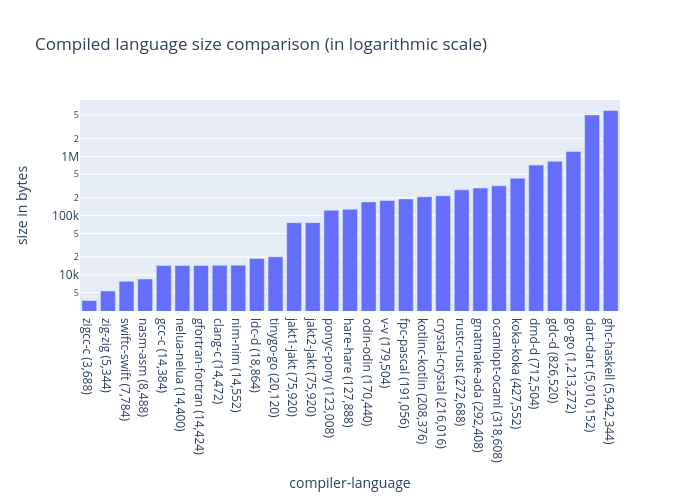
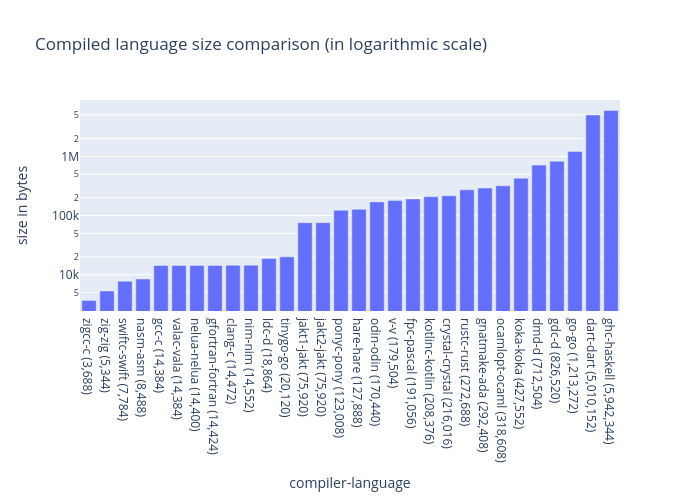
fix: vala and ocaml source code

Changed region(s): [[0.12, 0.3, 0.87, 0.93], [0.84, 0.84, 0.87, 0.87]]

diff --git a/README.md b/README.md
@@ -24,6 +24,7 @@ Logarithmic scale:
 |swift|swiftc|Swift version 5.6 (swift-5.6-RELEASE)|7,784|
 |asm|nasm|NASM version 2.15.05 compiled on Sep 24 2020|8,488|
 |c|gcc|gcc (GCC) 12.2.0|14,384|
+|vala|valac|Vala 0.56.3|14,384|
 |nelua|nelua|Nelua 0.2.0-dev|14,400|
 |fortran|gfortran|GNU Fortran (GCC) 12.2.0|14,424|
 |c|clang|clang version 14.0.6|14,472|
